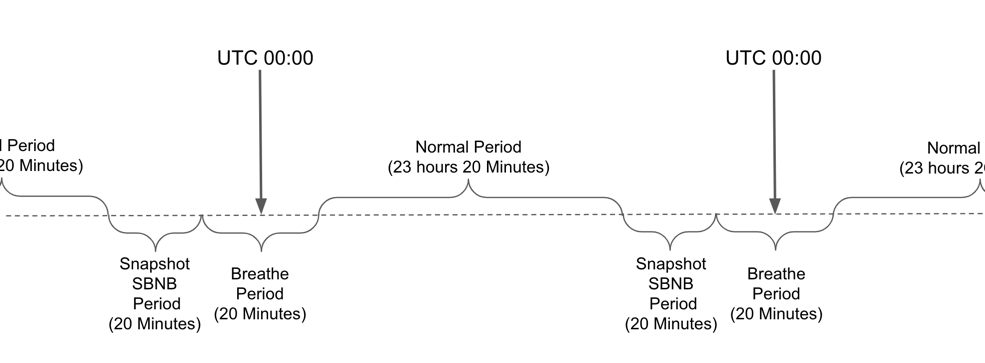
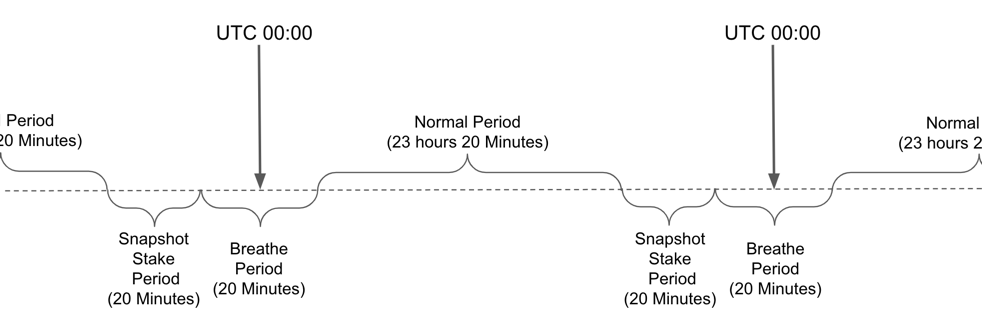
add stakeMap

Changed region(s): [[0.0, 0.0595, 1.0, 0.9226], [0.2138, 0.0595, 0.336, 0.1786]]

diff --git a/docs/Staking.md b/docs/Staking.md
@@ -60,7 +60,7 @@ StakingBNB is a DeFi platform which can provide better staking BNB service than 
 2. All staked BNB will be transferred to the TSS account by cross chain transfer.
 3. It collects all stake and unstake event from StakingBNBAgent contract.
 4. It will send stake or unstake transactions to BC(Binance Chain) at snapshot period(will be introduced later) from the TSS account. Suppose the total stake amount is 100:BNB and the total unstake amount is 50:BNB, the only 50:BNB will be staked. And the rest of them will be transferred to `UnstakedVault` by cross chain transfer.
-5. It will take a snapshot of LBNB(Staking BNB Token) at first height in snapshot period, which is the basement of staking reward calculation.
+5. It will take a snapshot of stake amount for all users at first height in snapshot period, which is the basement of staking reward calculation.
 6. After UTC 00:00, it will transfer received staking reward to `StakingRewardVault` and transfer matured unstaked BNB to `StakingRewardVault`. Not all staking reward will be distributed to users. 1% of them will be left for staking transaction fee and cross chain fee, and 4% will be transferred to `CommunityTaxVault`.
 7. It will also calculate reward for all stakers and write the reward amounts to `StakingBNBAgent` contract. 
 
@@ -80,7 +80,7 @@ StakingBNB is a DeFi platform which can provide better staking BNB service than 
 
 2. `Normal Period`: Users are fee to call methods: `stake`, `unstake`, `accelerateUnstakedMature`, `batchClaimUnstakedBNB` and `claimStakingReward`.
 
-3. `Snapshot LBNB Period`: `StakingBNBAgent` will reject any users' operations in this period. `BCStakingProxy` will take a snapshot for LBNB holders at the first height of this period. Then, `BCStakingProxy` will do stake, unstake and restake(redelegate) to achieve better APY.
+3. `Snapshot Stake Period`: `StakingBNBAgent` will reject any users' operations in this period. `BCStakingProxy` will take a snapshot for stake amount of all users at the first height of this period. Then, `BCStakingProxy` will do stake, unstake and restake(redelegate) to achieve better APY.
 
 ### Characteristics
 
